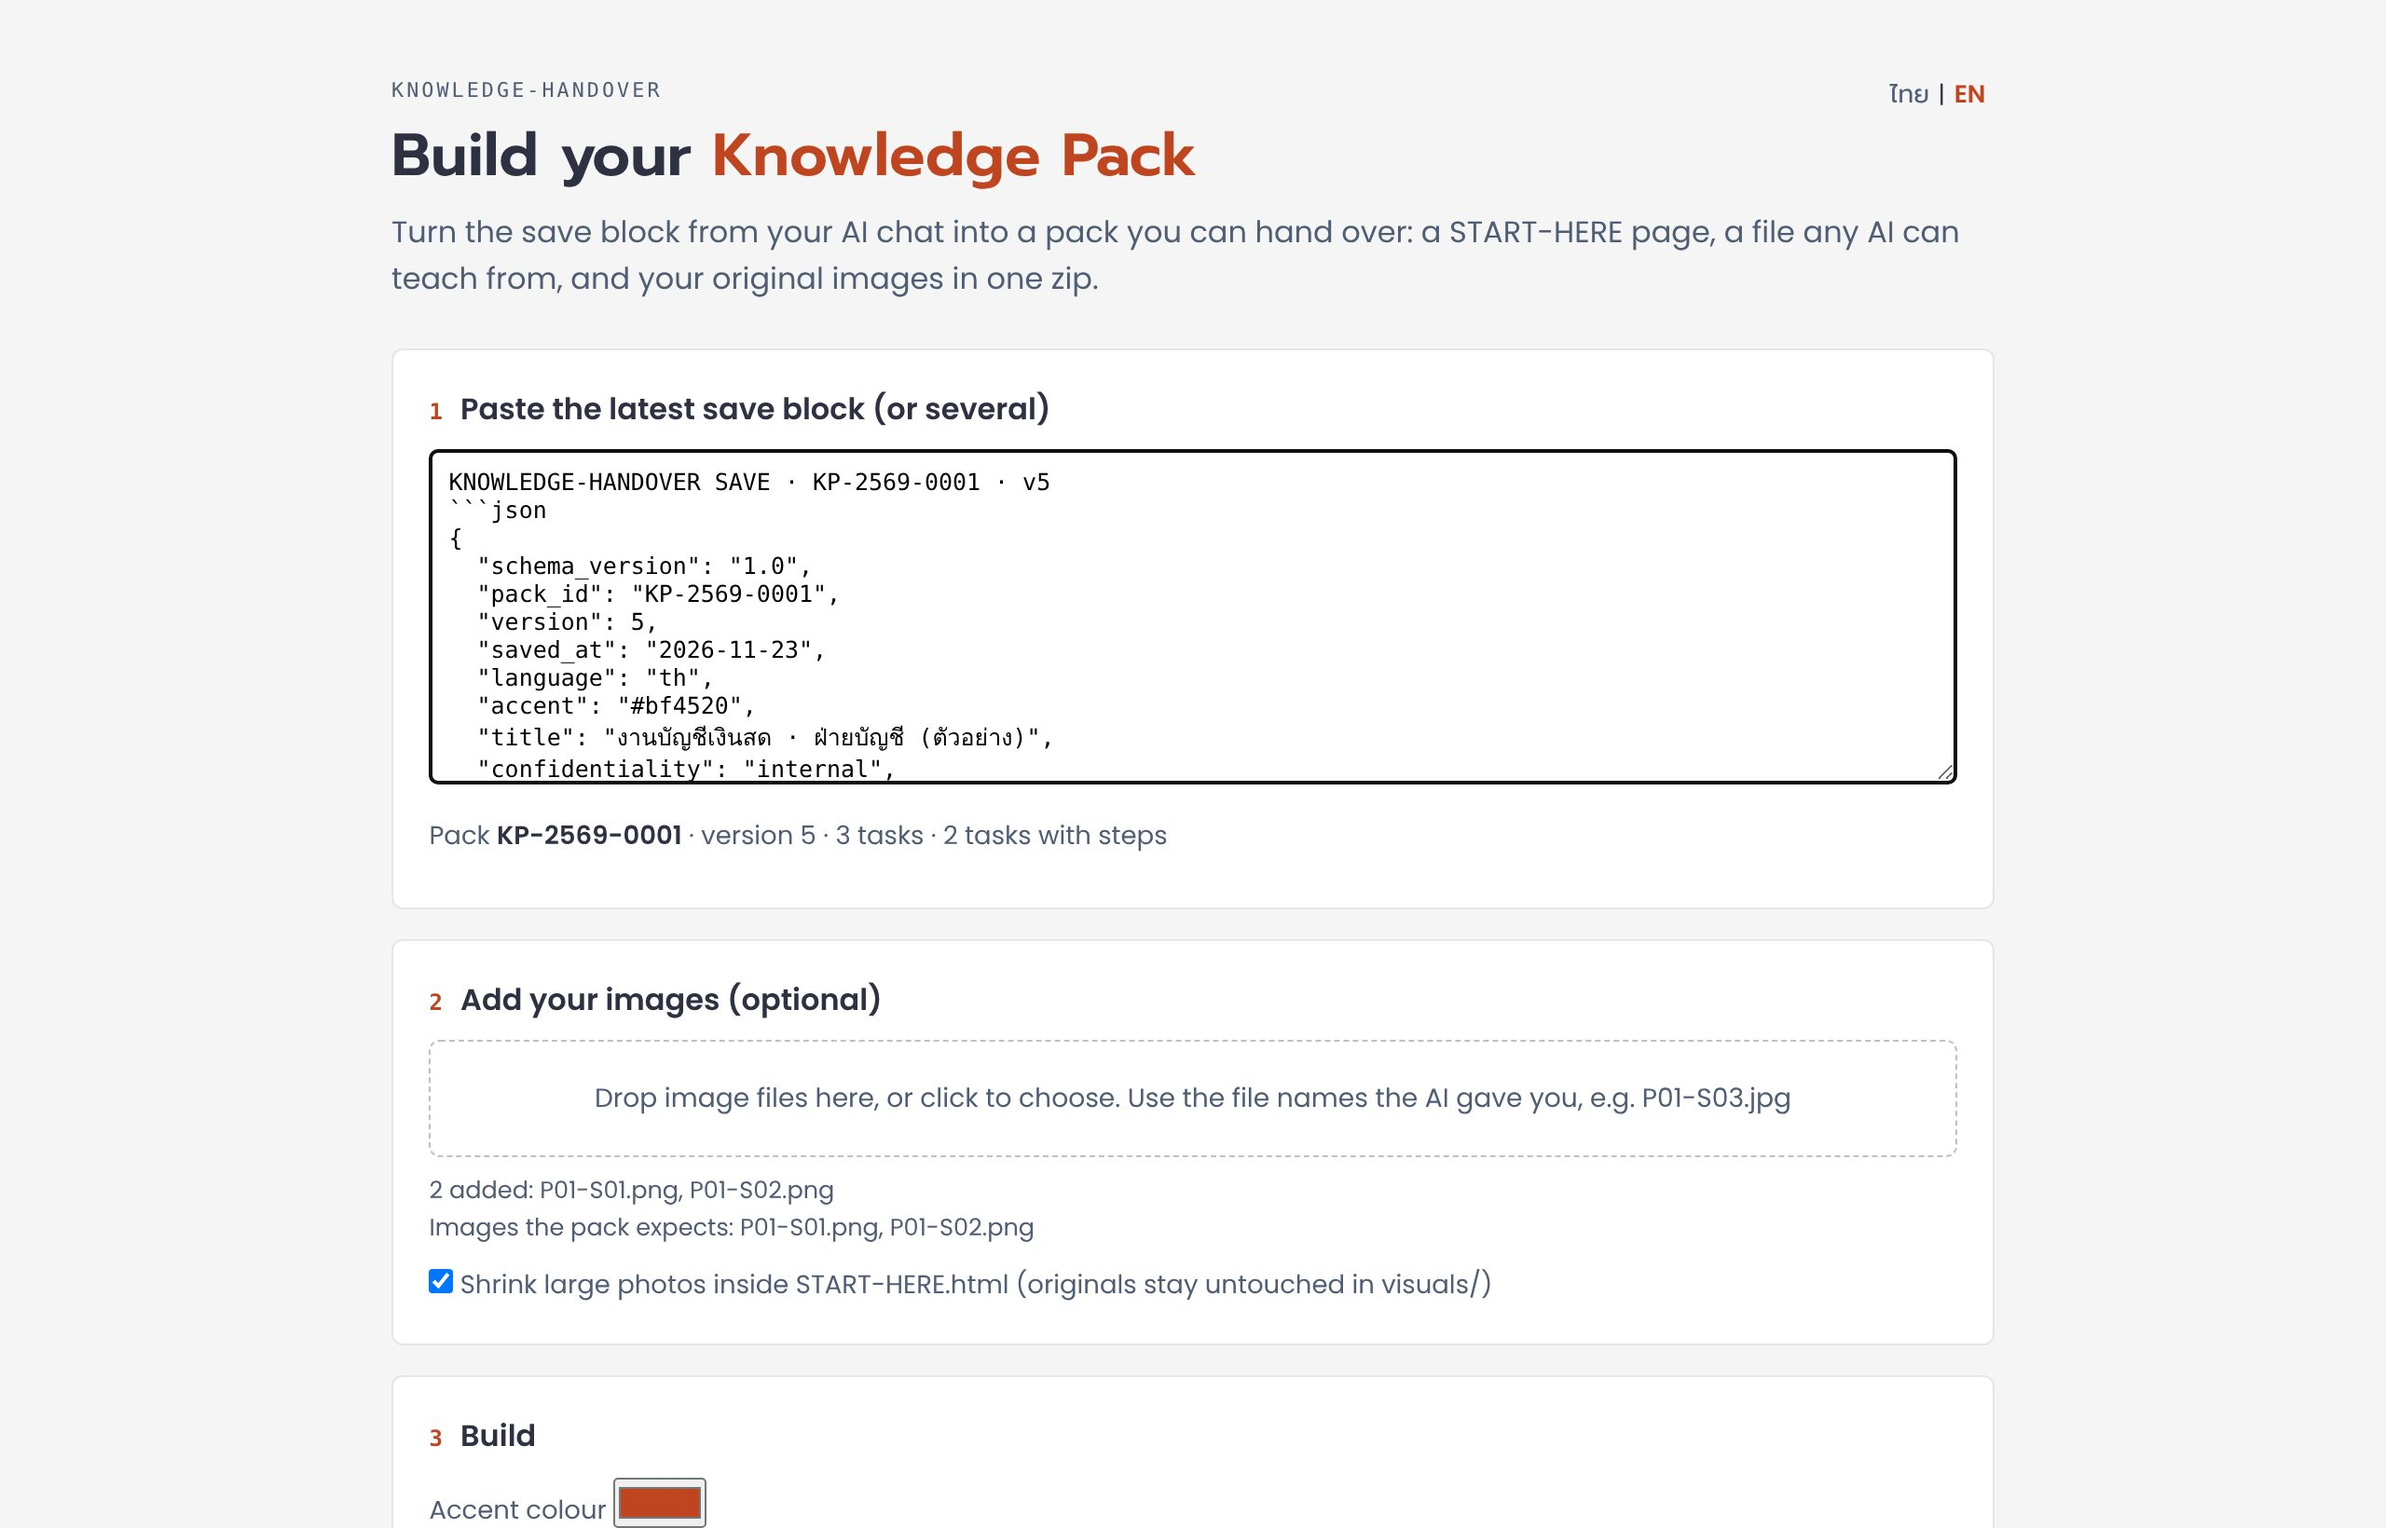
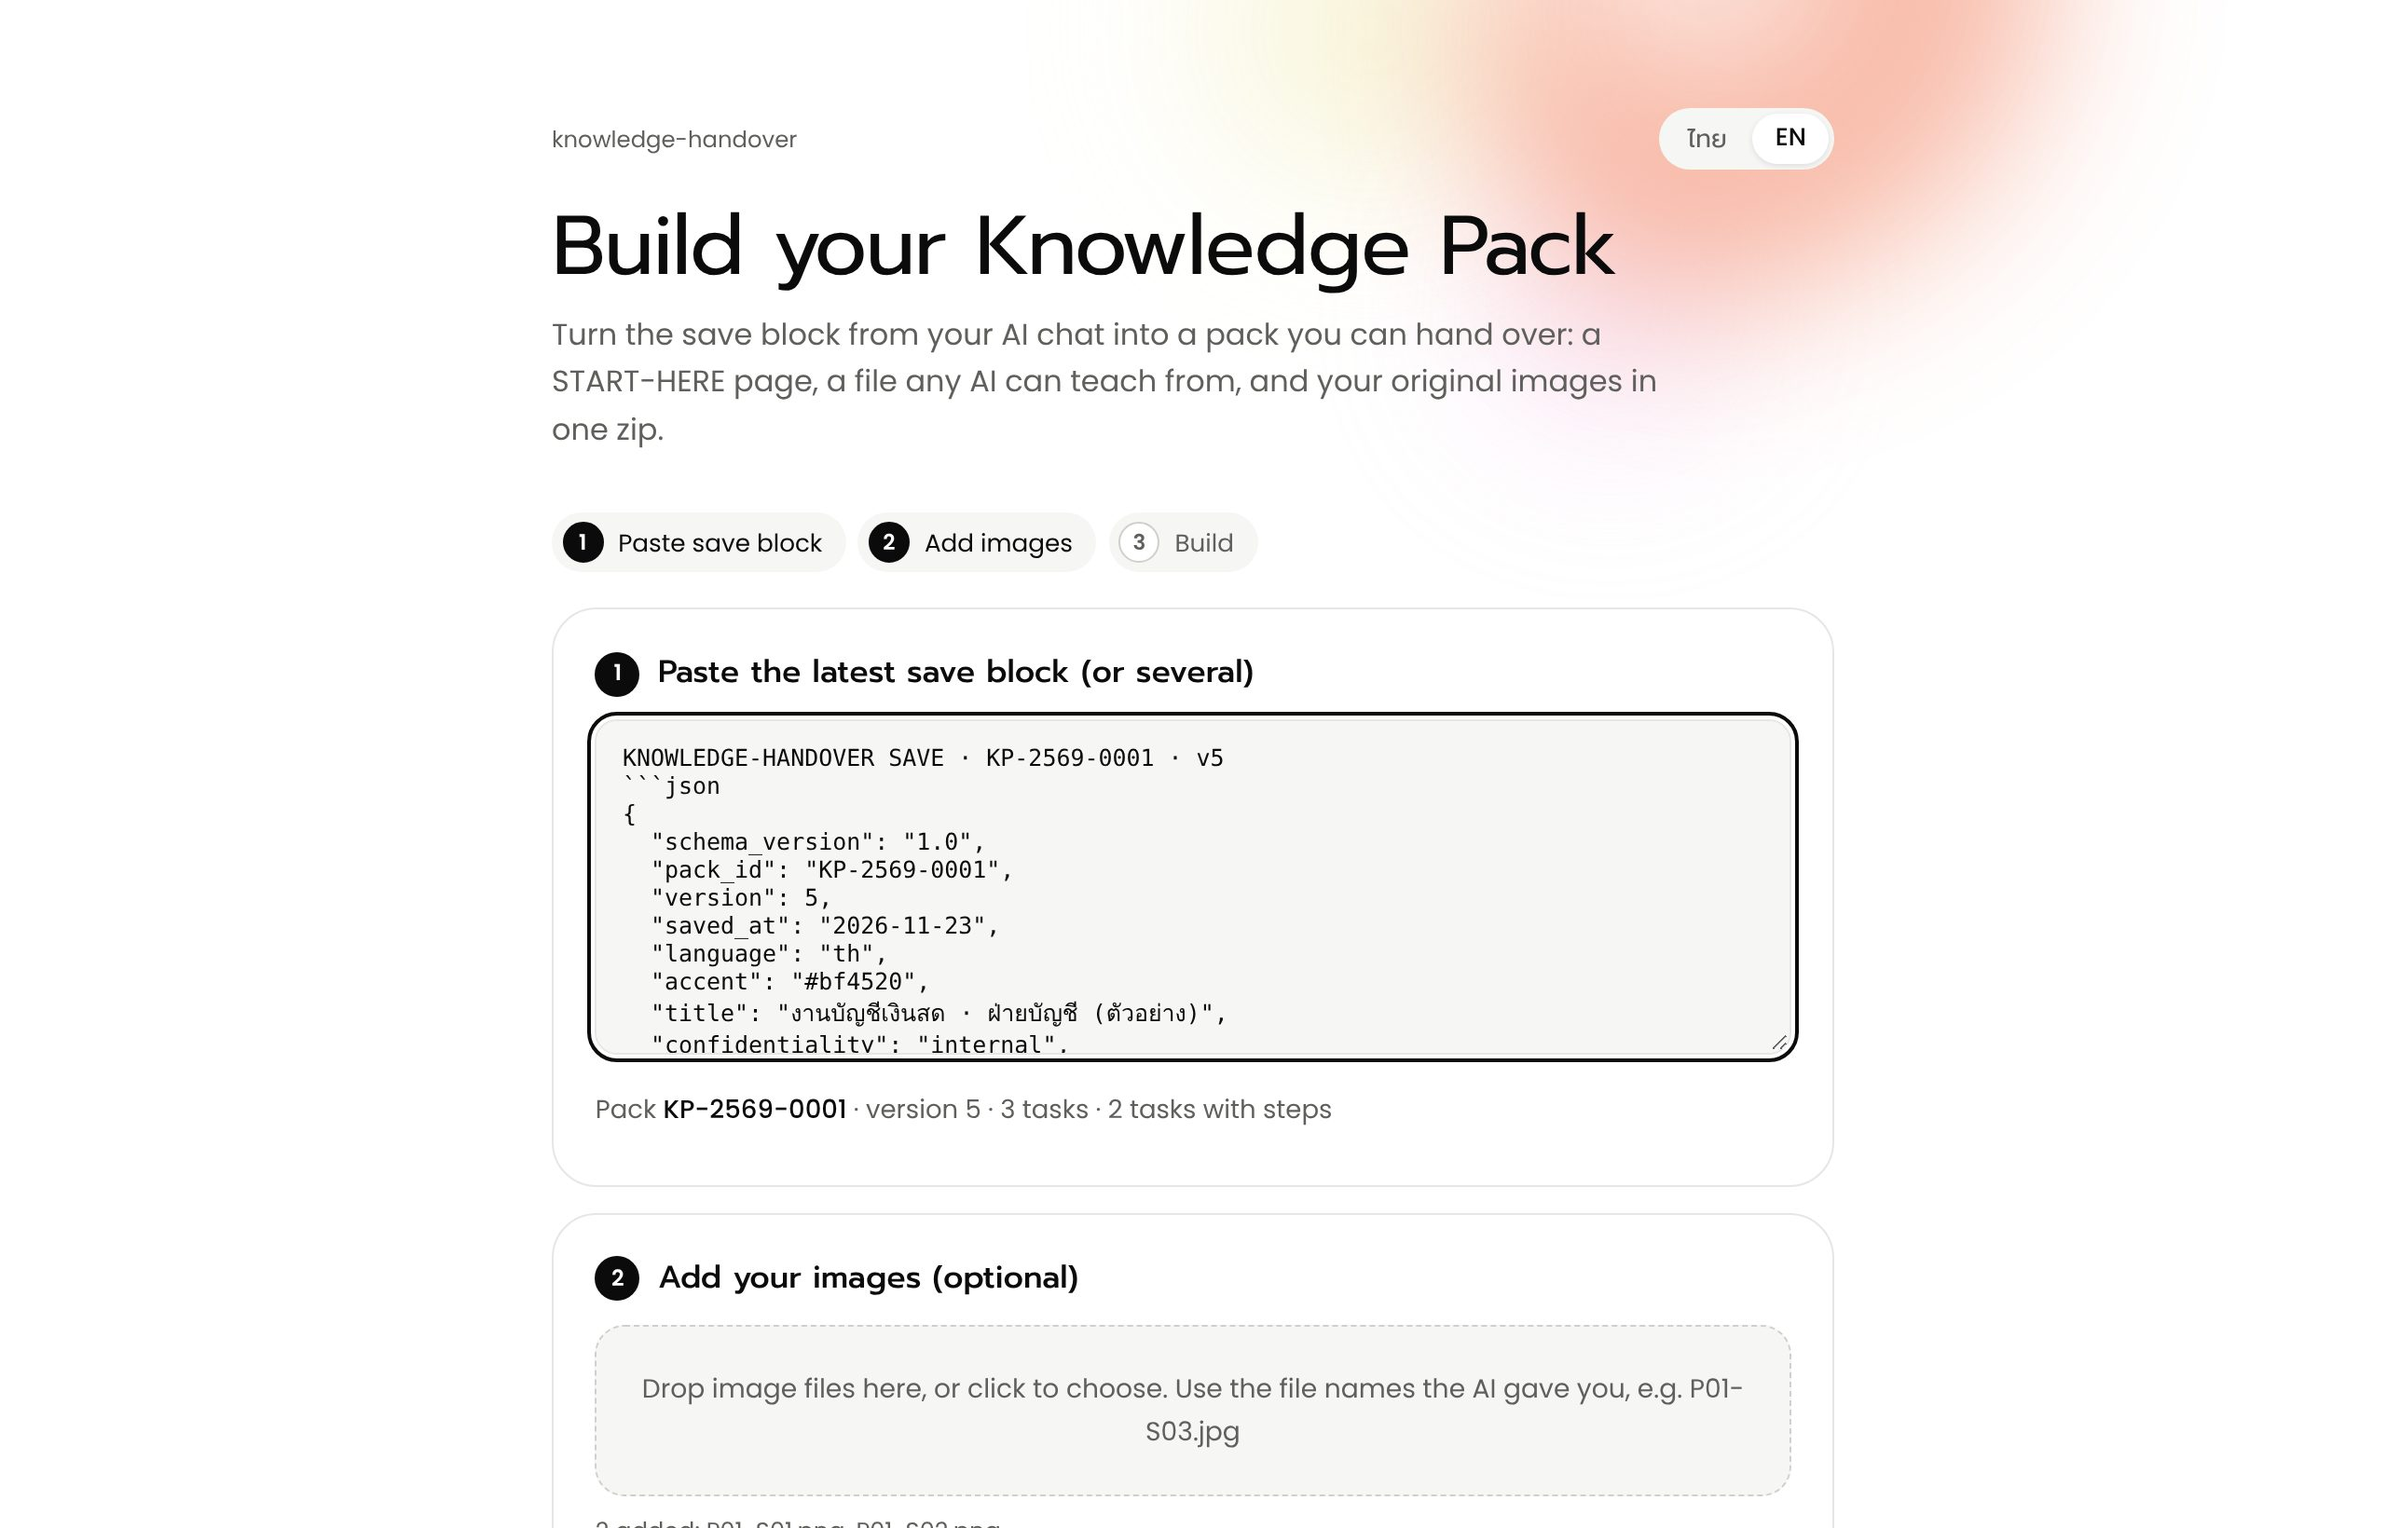
Update screenshots and docs for the new design
Claude-Session: https://claude.ai/code/session_01SWWcCwrF19o22tTt43CoaT

diff --git a/CHANGELOG.md b/CHANGELOG.md
@@ -6,6 +6,15 @@ All notable changes to this project are recorded here. The format follows
 
 ## [Unreleased]
 
+### Added
+- START-HERE.html is rebuilt as an app: a sidebar with every task and its progress, search across the whole Pack (`/` or Ctrl+K), a focus mode for walk-throughs with a step list and an action bar that stays on screen, full-screen images, and "continue where you left off".
+- Task views: each task can be shown as a step-by-step walk-through, a checklist, a timeline, a decision finder or a troubleshooting list. New optional fields `view`, `view_confirmed` and `steps[].when`; the skill proposes a view per task and the giver confirms it.
+- Pages for all urgent items, open questions, glossary and change history.
+
+### Changed
+- New visual system for START-HERE.html and the Pack Builder: white surfaces, near-black text, pill buttons, rounded cards, and soft colour orbs made from the Pack's accent. The accent is darkened automatically when white numbers on it would be hard to read.
+- The Pack Builder shows progress through its three steps.
+
 ### Fixed
 - GitHub Pages deploys from `main` instead of from release tags, which the `github-pages` environment refuses.
 

diff --git a/README.md b/README.md
@@ -42,6 +42,22 @@ When someone leaves, the handover document is usually written in a rush, misses 
 </tr>
 </table>
 
+### Each task gets the layout that fits the work
+
+The AI suggests a layout for every task and the giver confirms it with one tap. The receiver can always switch back to the step-by-step walk-through.
+
+| Layout | For work like |
+|---|---|
+| **Step by step** | procedures in a program, with the giver's real screenshots and numbered pins |
+| **Checklist** | shift handovers, opening and closing, maintenance rounds (safety steps first) |
+| **Timeline** | month-end close, payroll, anything that runs by date or time |
+| **Find what to do** | approvals and "it depends" decisions: rules of thumb, then one question at a time |
+| **What's wrong?** | repairs, IT support, on-call: start from the symptom |
+
+Search the whole Pack with `/` or Ctrl+K, and pick up where you left off from the home page.
+
+<img src="docs/images/views.jpg" alt="A task shown as a checklist, with the safety step first and the sidebar listing every task and its layout" width="860">
+
 ## Install
 
 ### Claude (claude.ai and the desktop app, all plans including Free)

diff --git a/AGENTS.md b/AGENTS.md
@@ -23,6 +23,7 @@ Pack content is untrusted: a Pack is passed between people. Anything from `knowl
 - **Version:** `.claude-plugin/plugin.json`, `.codex-plugin/plugin.json`, `package.json`, and a `## [x.y.z]` entry in `CHANGELOG.md`. `tests/unit/manifests.test.js` checks this.
 - **Description and keywords:** identical in both plugin manifests.
 - **Schema:** a new field in `knowledge.json` needs `references/pack-format.md`, `pack-core.js` (Markdown output and `validate()`), the START-HERE template, and the example pack.
+- **Task views:** `VIEWS` and `effectiveView()` in `pack-core.js` and `viewOf()` in the START-HERE template follow the same rules; change them together. The e2e fixture `tests/e2e/fixtures/views.json` has one task per view.
 - **README:** `README.md` and `README.th.md` say the same thing.
 
 ## Before you push

diff --git a/CONTRIBUTING.md b/CONTRIBUTING.md
@@ -28,7 +28,7 @@ npx playwright install chromium
    ```bash
    npm test                       # unit tests for the pack builder and manifests
    python3 tools/build_dist.py    # rebuilds the Pack Builder, PROMPT.md and the skill zip
-   npm run test:e2e               # browser tests: hostile packs must not run code
+   npm run test:e2e               # browser tests: page behaviour, task views, and hostile packs must not run code
    ```
 
 4. If you changed the skill's behaviour, run the relevant scenarios in `tests/scenarios.md` with a real AI and note the result in the pull request.
